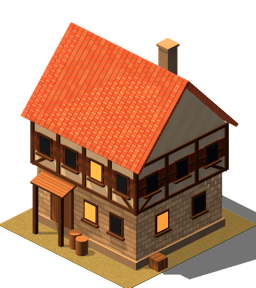
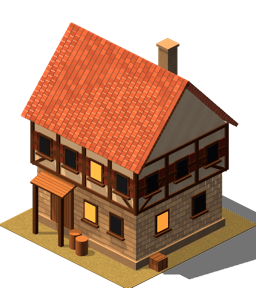
fix(isokit): tone the citizen house tile roof down a notch
The warmed tile finish read as signal orange next to the in-game grass.
Pull it toward terracotta and re-render the citizen house only.

Refs #84

Changed region(s): [[0.0938, 0.0625, 0.75, 0.5938]]

diff --git a/Tools/IsoKit/Sources/IsoKitCore/Materials.swift b/Tools/IsoKit/Sources/IsoKitCore/Materials.swift
@@ -136,7 +136,7 @@ enum Tex {
     static let ashlar = courses(RGB(0.76, 0.65, 0.50), rowHeight: 16, blockWidth: 32, joint: RGB(0.52, 0.44, 0.34), seed: 5)
     static let planks = planks(RGB(0.58, 0.38, 0.20), seed: 4)
     static let thatchStraw = thatch(seed: 6)
-    static let tile = courses(RGB(0.72, 0.27, 0.13), rowHeight: 16, blockWidth: 16, joint: RGB(0.32, 0.11, 0.05), seed: 7)
+    static let tile = courses(RGB(0.60, 0.26, 0.17), rowHeight: 16, blockWidth: 16, joint: RGB(0.28, 0.11, 0.07), seed: 7)
     static let slate = courses(RGB(0.31, 0.35, 0.45), rowHeight: 12, blockWidth: 14, joint: RGB(0.16, 0.18, 0.24), seed: 8)
     static let cobbles = cobble(seed: 9)
     static let wood = speckled(RGB(0.60, 0.39, 0.20), amount: 0.1, seed: 10)
